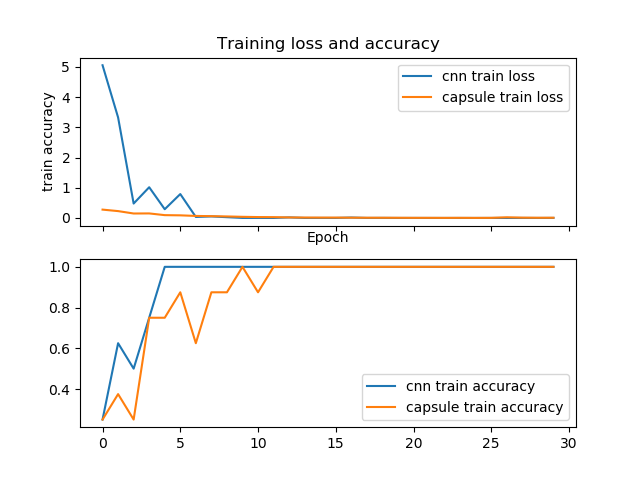
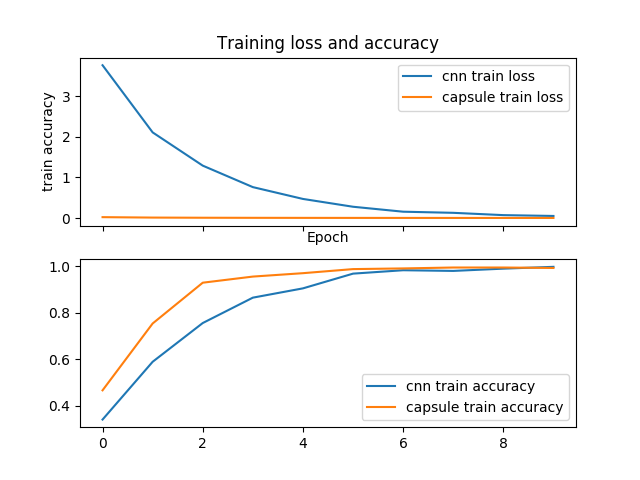
clean up and plot

diff --git a/plot.py b/plot.py
@@ -1,17 +1,19 @@
+import matplotlib
+matplotlib.use('Agg')
 import matplotlib.pyplot as plt
 import pickle
 
 train_loss_cnn, train_accuracy_cnn = pickle.load(open('result/cnn_train.p', 'rb'))
 train_loss_capsule, train_accuracy_capsule = pickle.load(open('result/capsule_train.p', 'rb'))
 f, axarr = plt.subplots(2, sharex=True)
-axarr[0].plot(range(30), train_loss_cnn, label='cnn train loss')
-axarr[0].plot(range(30), train_loss_capsule, label='capsule train loss')
+axarr[0].plot(range(10), train_loss_cnn, label='cnn train loss')
+axarr[0].plot(range(10), train_loss_capsule, label='capsule train loss')
 axarr[0].set_title('Training loss and accuracy')
 axarr[0].set_xlabel('Epoch')
 axarr[0].set_ylabel('train loss')
 axarr[0].legend()
-axarr[1].plot(range(30), train_accuracy_cnn, label='cnn train accuracy')
-axarr[1].plot(range(30), train_accuracy_capsule, label='capsule train accuracy')
+axarr[1].plot(range(10), train_accuracy_cnn, label='cnn train accuracy')
+axarr[1].plot(range(10), train_accuracy_capsule, label='capsule train accuracy')
 axarr[0].set_ylabel('train accuracy')
 axarr[1].legend()
 plt.savefig("img/train_curve.png")

diff --git a/model.py b/model.py
@@ -163,7 +163,6 @@ def load_data():
 
 def main():
     X_tr, y_tr, X_te, y_te = load_data()
-    print(len(X_tr))
     X_tr, y_tr = X_tr[:1024], y_tr[:1024]
     X_te, y_te = X_te[:128], y_te[:128]
     model = ConvNet() if args.model == 'cnn' else CapsuleNet()
@@ -171,7 +170,7 @@ def main():
     optimizer = Adam(model.parameters())
     train_loss = []
     train_accuracy = []
-    for epoch in range(30):
+    for epoch in range(10):
         print(("Epoch %d " + "-"*70) % (epoch+1))
         train_loss.append(train(model, optimizer, X_tr, y_tr))
         train_accuracy.append(test(model, X_tr, y_tr, "Train"))
